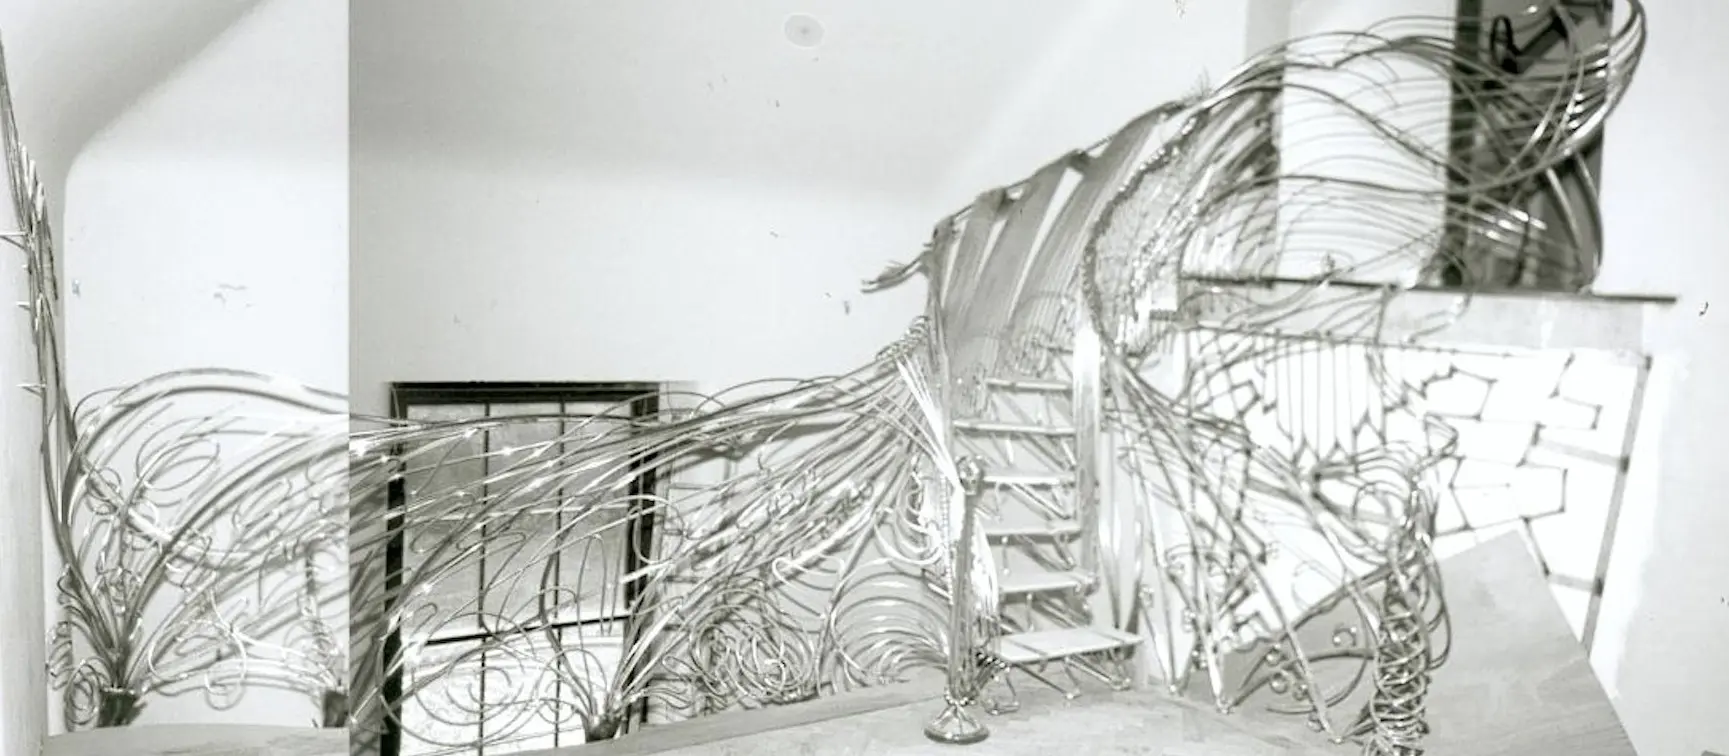
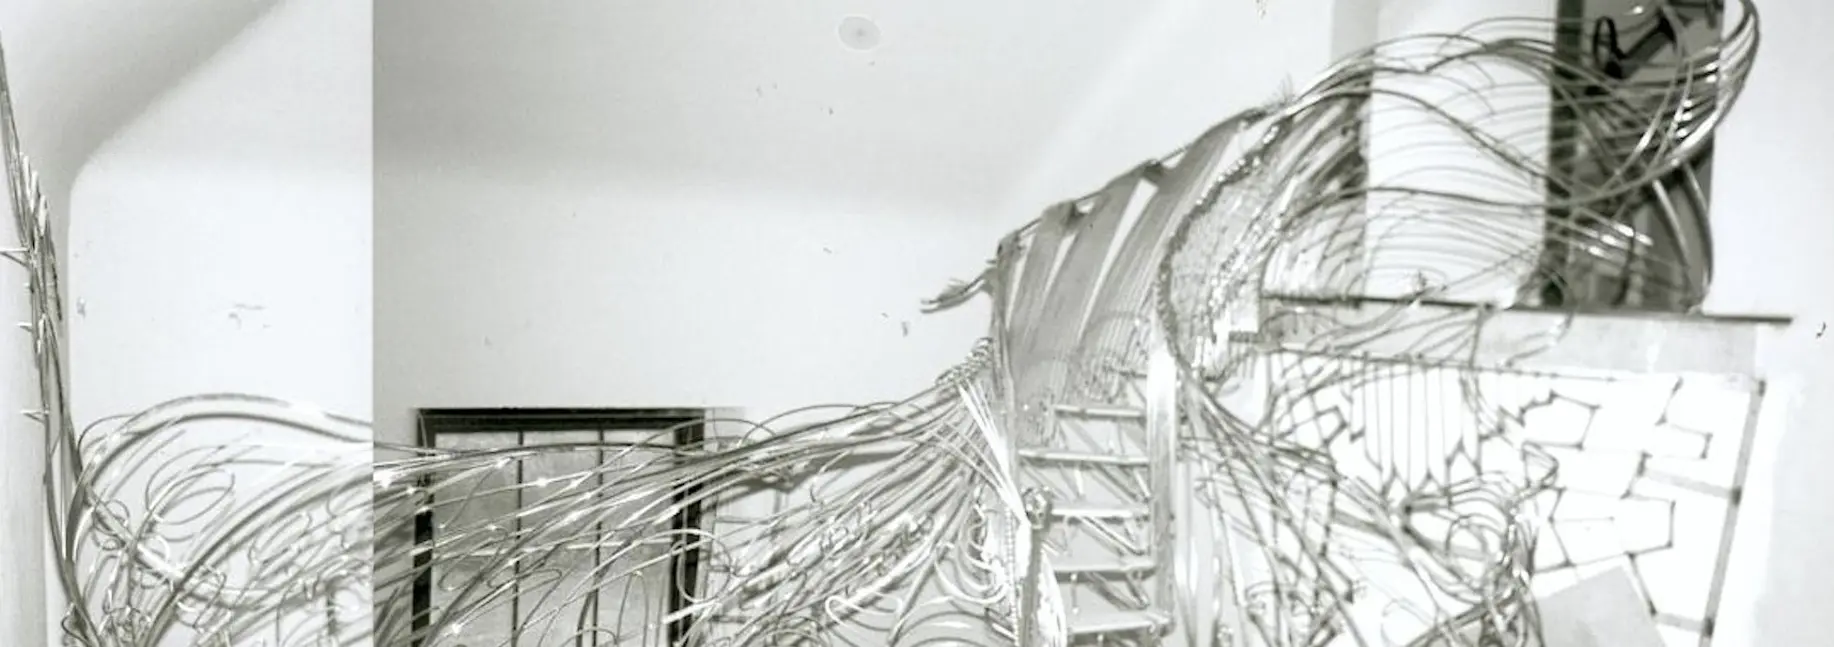
Adjust panoramic picture sizes

diff --git a/css/main.css b/css/main.css
@@ -293,13 +293,14 @@ footer p {
 }    
 
 .panoramic { 
+    margin-top: 20px;
     height: 300px;
     object-fit: cover;
     overflow: hidden;
     display: flex;
     align-items: center;
     justify-content: center;
-    box-shadow: inset 0px 0px 10px rgba(0,0,0,0.5);
+    box-shadow: inset 0px 0px 30px 10px rgba(0,0,0,0.7);
 }
 
 .panoramic img {
@@ -436,7 +437,7 @@ footer p {
 
     .main aside {
         float: right;
-        width: 40%;
+        width: 45%;
     }
 
     .gallery-item {
